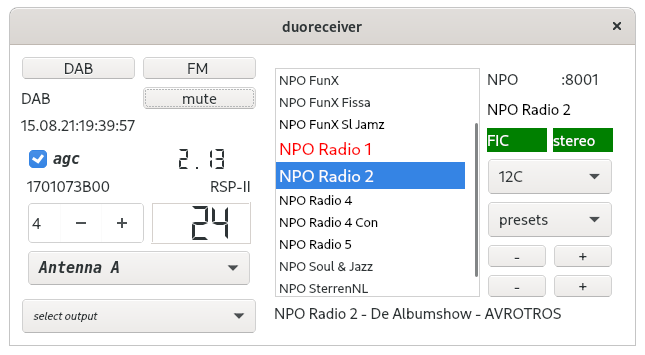
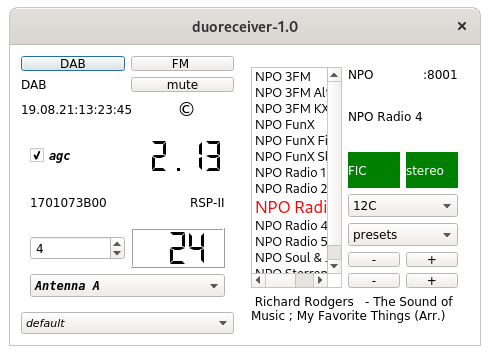
Version 1.0

diff --git a/src/various/Xtan2.cpp b/src/various/Xtan2.cpp
@@ -55,9 +55,9 @@
 
 float	compAtan::atan2 (float y, float x) {
 
-	if (isinf (x) || isinf (y)) return 0;
-	if (isnan (x) || isnan (y)) return 0;
-	if (isnan (-x) || isnan (-y)) return 0;
+	if (std::isinf (x) || std::isinf (y)) return 0;
+	if (std::isnan (x) || std::isnan (y)) return 0;
+	if (std::isnan (-x) || std::isnan (-y)) return 0;
 	if (x == 0) {
 	   if (y == 0)  return 0;
 //	      return std::numeric_limits<float>::infinity ();

diff --git a/main.cpp b/main.cpp
@@ -58,7 +58,9 @@ QString dabPresets	= QDir::homePath ();
  *	Before we connect control to the gui, we have to
  *	instantiate
  */
+#if	Qt >= 0x050600
 	QGuiApplication::setAttribute (Qt::AA_EnableHighDpiScaling);
+#endif
 	QApplication a (argc, argv);
 	a. setWindowIcon (QIcon (":/FM-Radio.ico"));
 

diff --git a/README.md b/README.md
@@ -1,4 +1,4 @@
-DUORECEIVER
+DUORECEIVER 1.0
 
 COMBINED FM AND DAB MINI RECEIVER
 
@@ -9,25 +9,31 @@ COMBINED FM AND DAB MINI RECEIVER
 ![duoreceiver](/duoreceiver-2.png?raw=true)
 
 
-I got questions from family members why there was no combined
-FM and DAB receiver.
+I got questions from family members why no combined
+FM and DAB receiver was available, since there were
+multiple versions of both a DAB decoder and an FM decoder written.
 *Duoreceiver* is an answer to that, using the philosophy of the DAB mini
-program a "mini" version of a DAB/FM receiver is implemented.
+program iy is a "mini" version of a DAB/FM receiver.
 
 The current version supports 
  - the SDRplay devices using the "old" 2.13 interface library
  - the airspy devices
  - rtlsdr sticks
 
-Selecting a device is automatic on program startup.
-On program startup, the software will check the availability of
+Further devices may be added later on.
+
+*Selecting* a device is automatic,
+on program startup, the software will check the availability of
 any of the configured devices.
-If one of the configured devices
-is connected, the software will detect it and use it as input device.
+If any of the configured devices
+is connected and can be initialized, the duoreceiver program will
+detect it and use it as input device.
 
 Note that the SDRplay control widget is included in the main widget,
-it merely contains a radio button for switching the agc on or off, and
-a spinbox for the IF gain reduction, restricted to the values 20 .. 59.
+it merely contains a radio button for switching the agc on or off, 
+a spinbox for the IF gain reduction, restricted to the values 20 .. 59
+and a spinbox for setting an LNA state.
+If the agc is "on", the IF gain reduction spinbox is hidden.
 
 Note that the airspy control widget is complicated and displayed
 in a separate widget.
@@ -60,23 +66,22 @@ Touching the combobox will show the registered presets.
 Touching a name in the list will instruct the software to switch to the
 service with that name.
 
-Adding a service to the list is by touching with the right mouse button
+*Adding* a service to the list is by touching with the right mouse button
 the currently selected service.
 
-----------------------------------------------------------------------------
-ToDo
-----------------------------------------------------------------------------
-
-- generating an appImage
+On switching off one of the subsystems, the duoreceiver will remember
+the frequency for the FM subsystem, or the service for the DAB subsystem.
+Next time such a subsystem is selected, the  frequency (for FM)
+or the service (for DAB) will be selected automatically.
 
 ----------------------------------------------------------------------------
 A note on some settings
 ----------------------------------------------------------------------------
 
 A small "configuration file" is maintained for saving some settings.
-The file is names ".duoreceiver.ini" and maintained in the user's
+The file is named ".duoreceiver.ini" and maintained in the user's
 home directory.
-The ".ini" file will register the subsystem used, and on starting
+This ".ini" file will (a.o) register the subsystem used, and on starting
 the program the registered subsystem , either F< or DAB, is activated.
 
 Two other files are maintained
@@ -84,4 +89,20 @@ Two other files are maintained
 list of saved fm stations with their frequency;
  - a file ".duoreceiver-dab-stations.xml", a file in ASCII format containing
 the presets, encoded in XML.
+
+----------------------------------------------------------------------
+# Copyright
+------------------------------------------------------------------------
+
+        Copyright (C)  2021
+        Jan van Katwijk (J.vanKatwijk@gmail.com)
+        Lazy Chair Computing
+
+        The Qt-DAB  software and derivatives such as duoreceiver
+	is made available under the GPL-2.0.
+        The software, is distributed in the hope that it will be useful,
+        but WITHOUT ANY WARRANTY; without even the implied warranty of
+        MERCHANTABILITY or FITNESS FOR A PARTICULAR PURPOSE.  See the
+        GNU General Public License for more details.
+
 
